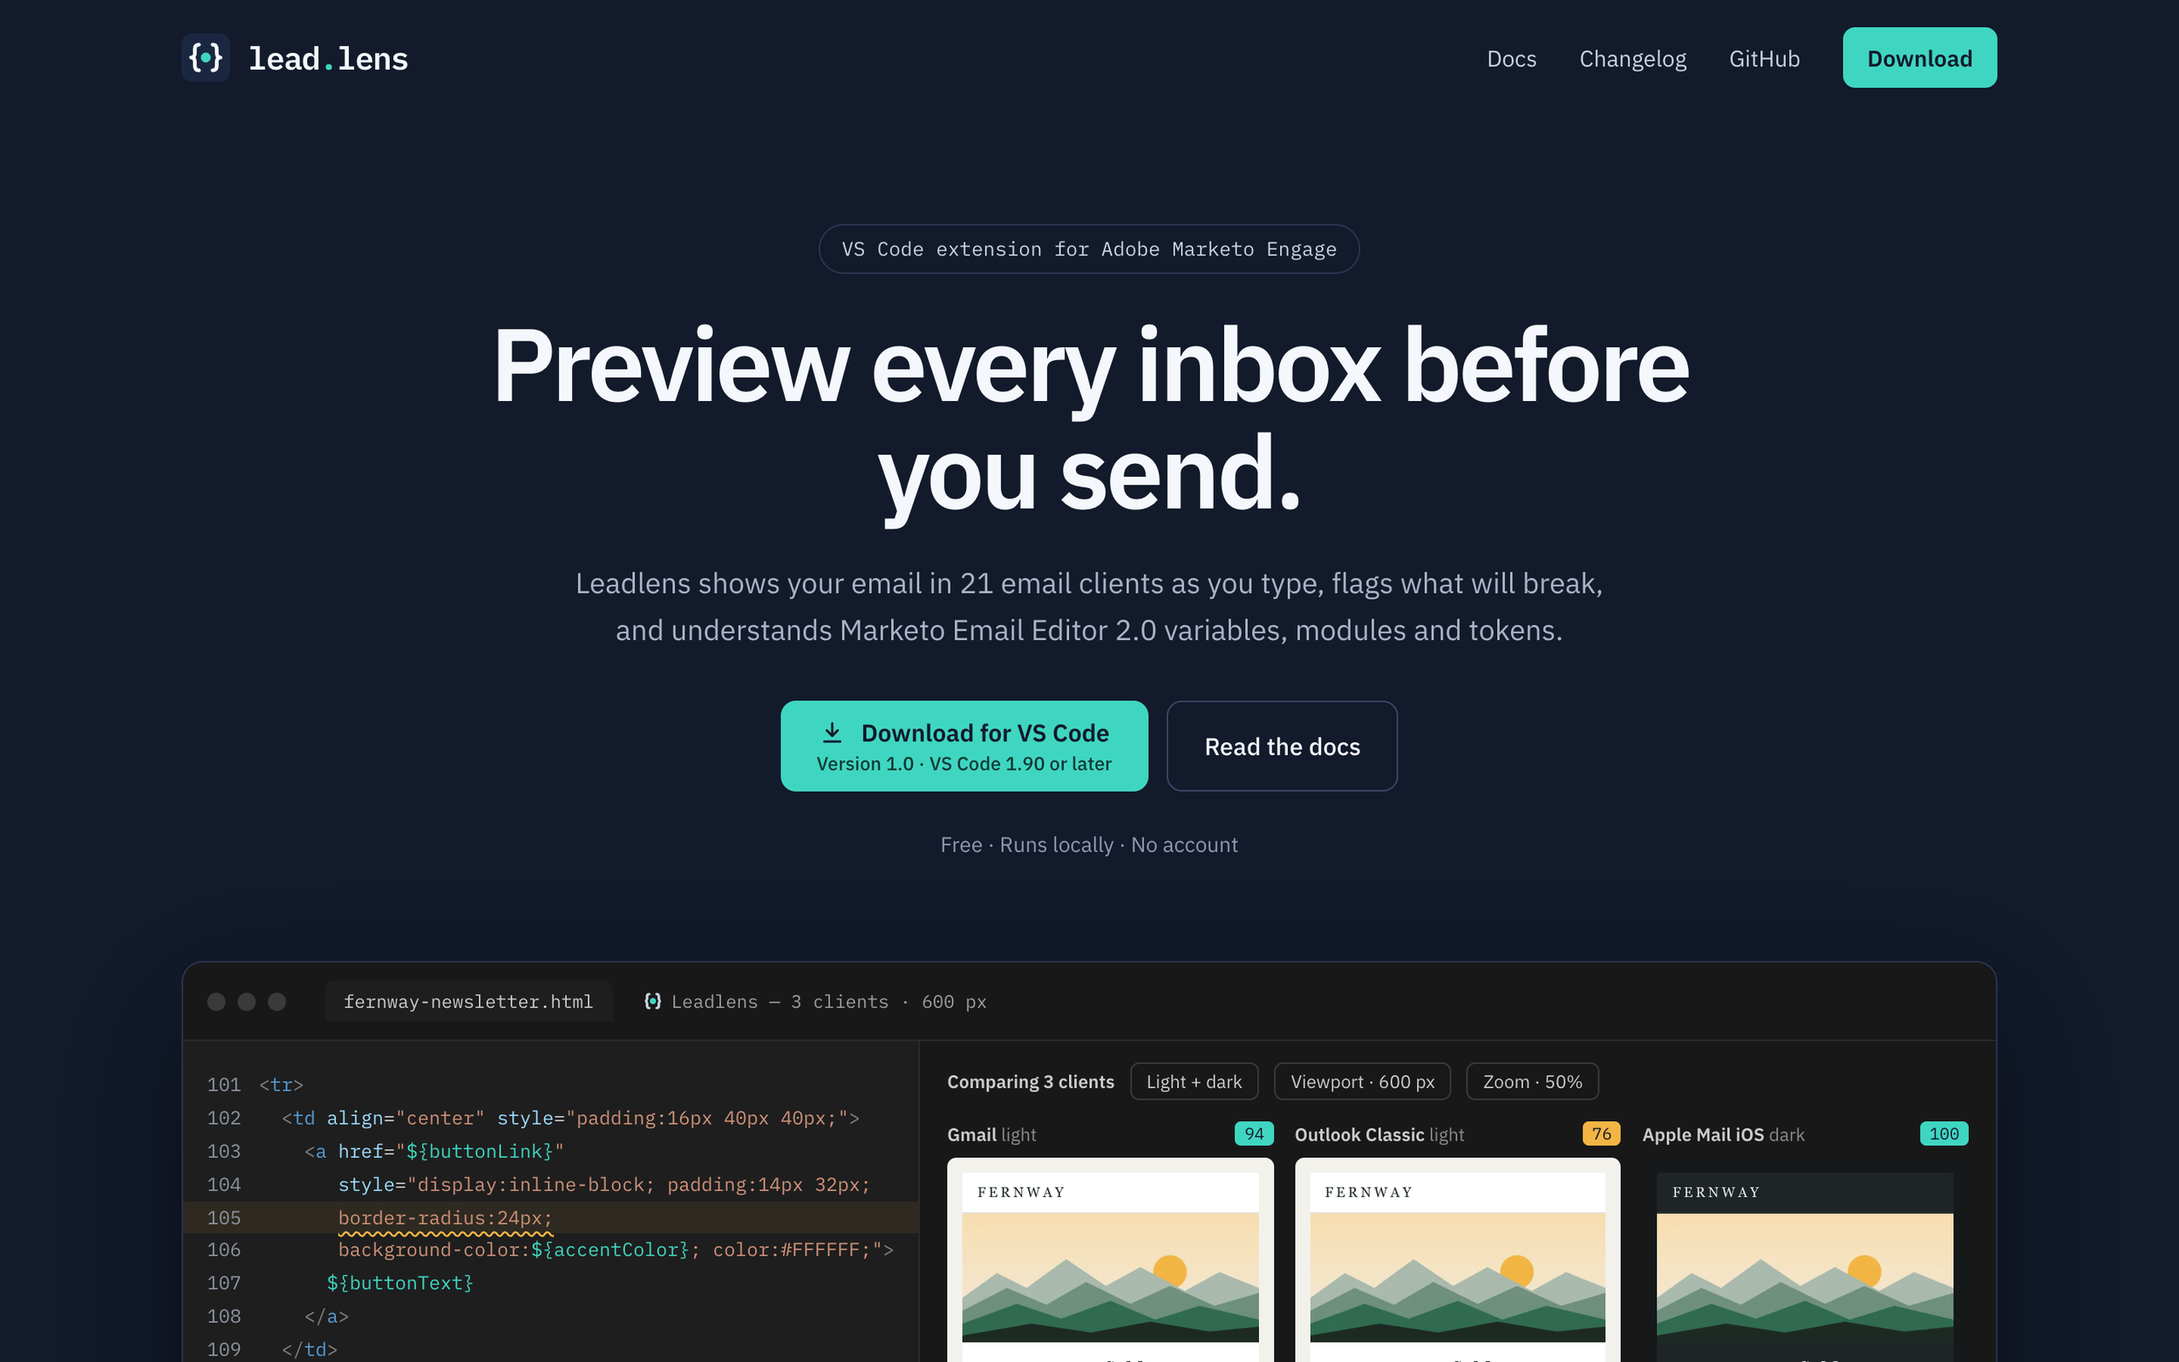
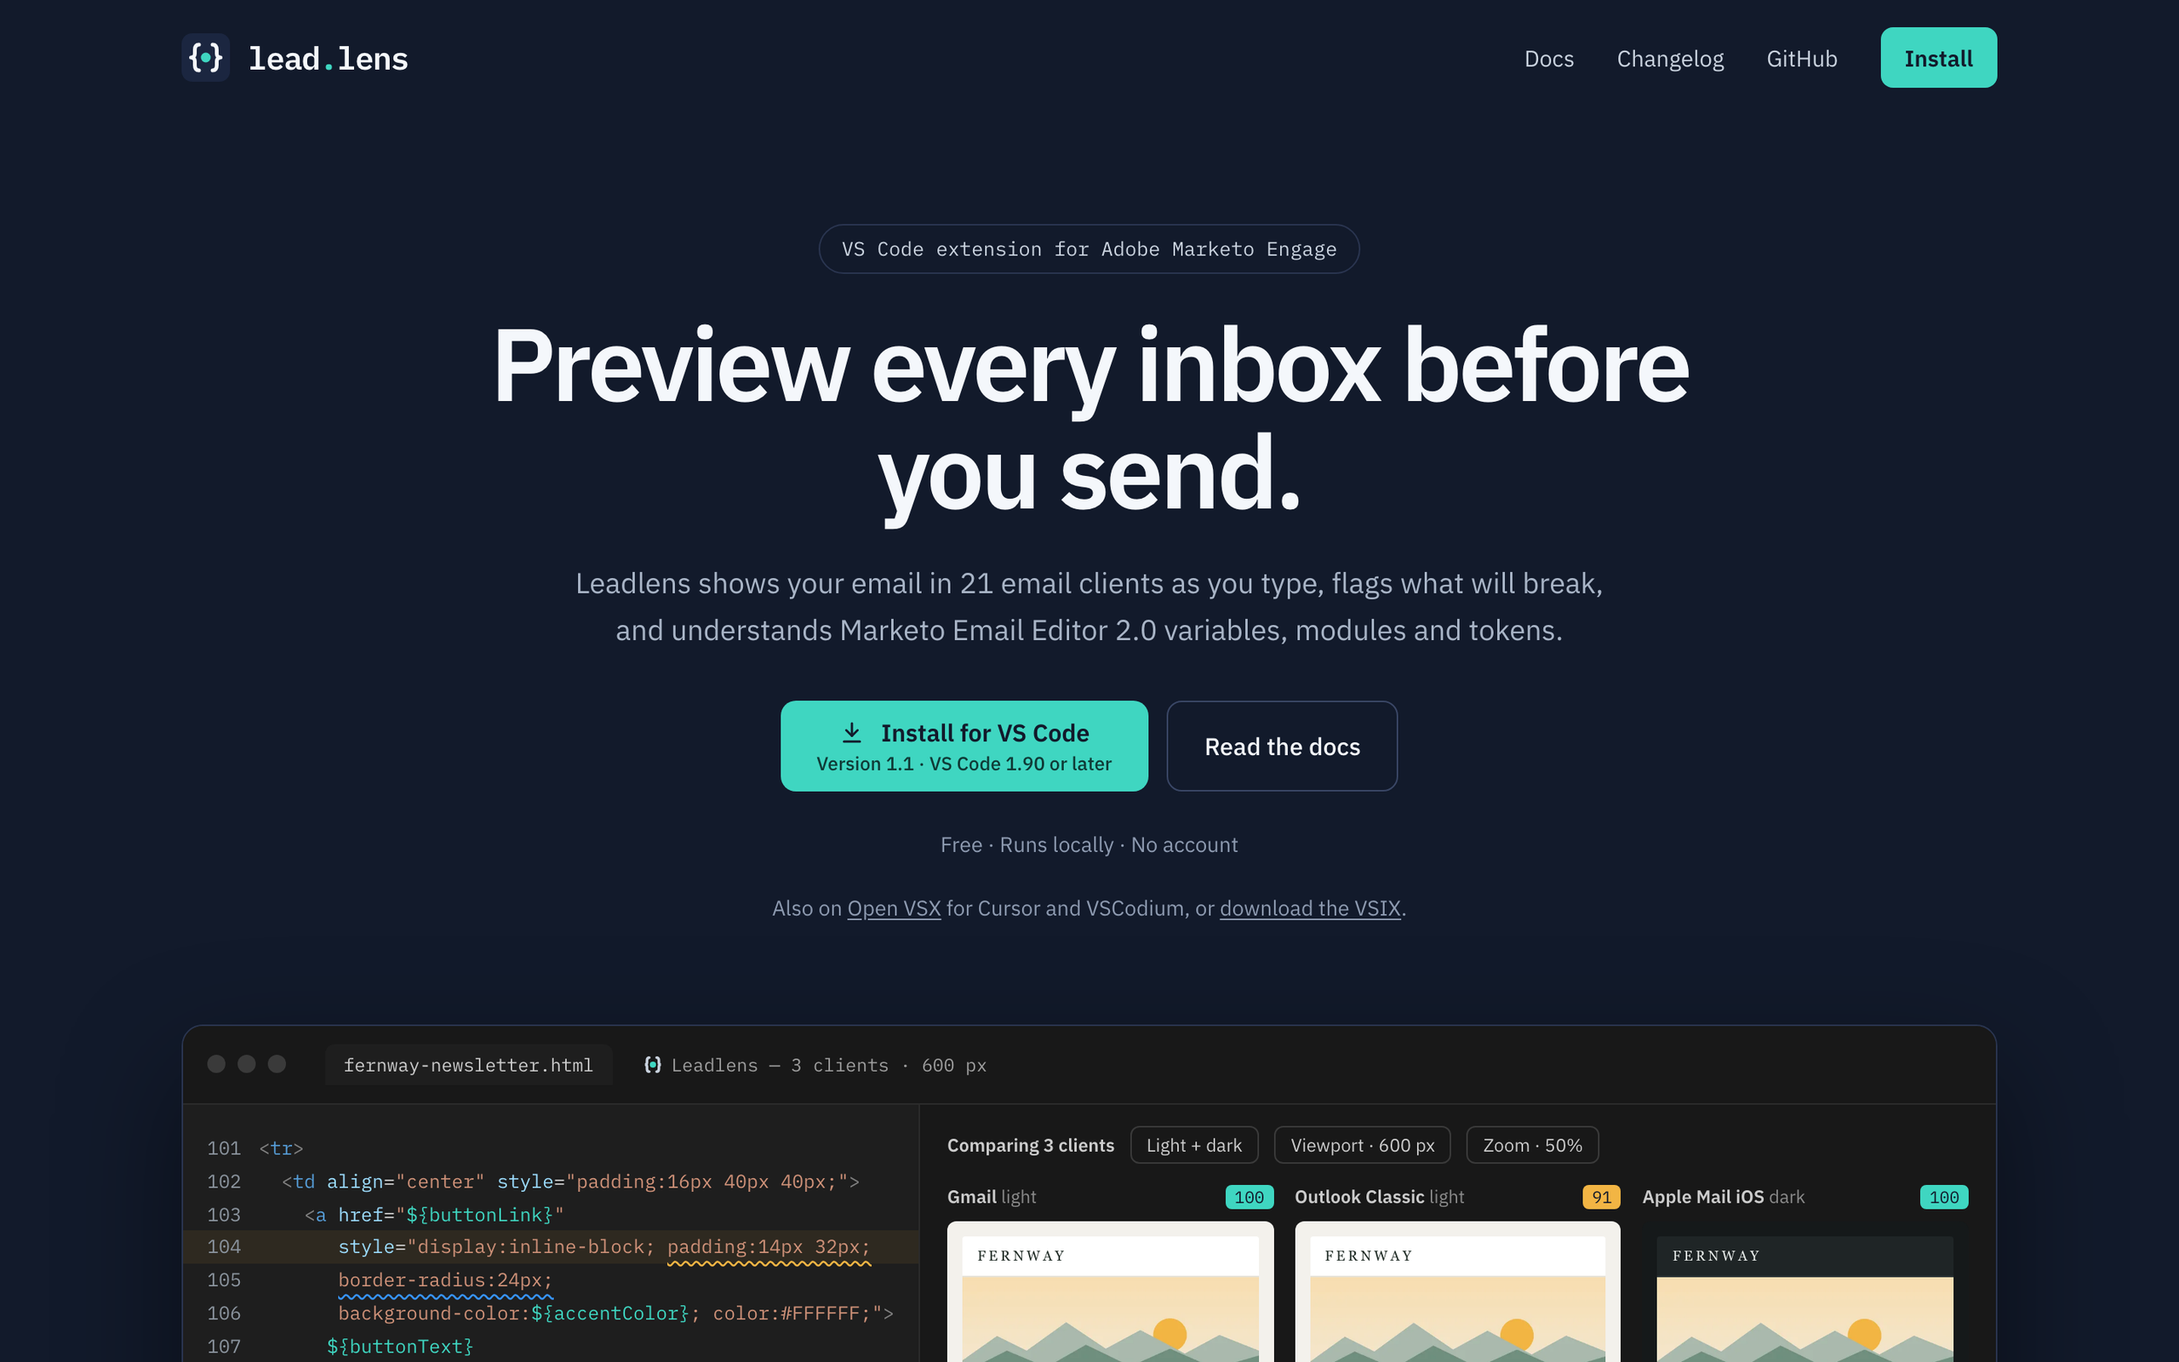
content: leadlens public release (#86)
## What changed

Update original Leadlens blog post now that the extension is available
on VS Code Marketplace and Open VSX. Add short announcement post to
announce the marketplace listing.

## How it was checked

- [X] `npm run verify` passes (format, lint, types, build)
- [X] Checked the branch preview in dark and light mode
- [X] Checked at phone width (375px) and desktop
- [X] Keyboard and reduced-motion behaviour still work, if UI changed
- [X] Lighthouse or PageSpeed checked, if a page's weight or layout
changed

## Brand

- [X] Uses tokens from `design/tokens.json` only (no new hex values or
one-off sizes)
- [X] Follows `docs/brand.md`, or this PR updates it

## Design system

- [ ] If this changes something [the design
system](https://design.harrisonjennings.au/) shows (a component, a
content element, a token or a page's look), there's a row for it in
`design-system/src/content/changes.yaml`; if it changes a page's first
screen, the templates' thumbnails are retaken (`npm run design:shots`)

diff --git a/src/content/posts/leadlens-email-previews-and-linting-for-marketo-inside-vs-code/index.md b/src/content/posts/leadlens-email-previews-and-linting-for-marketo-inside-vs-code/index.md
@@ -4,10 +4,11 @@ description: "A couple of months ago I wrote about whether sending yourself a te
 searchTitle: "leadlens: Marketo email previews and linting in VS Code"
 searchDescription: "Preview Adobe Marketo Engage emails across 21 email clients as you type, and lint them with Marketo-aware checks, in a VS Code extension."
 published: 2026-10-16
+updated: 2026-10-27
 topics: [adobe-marketo-engage, web-development]
 wpId: 685
 cover: "./cover.png"
-coverAlt: "Leadlens in VS Code: a Marketo template with a border-radius warning for Outlook Classic and its explanation, beside the email previewed in Gmail, Outlook Classic and Apple Mail iOS in dark mode"
+coverAlt: "Leadlens in VS Code: a Marketo template with a padding warning for Outlook Classic and its explanation, beside the email previewed in Gmail, Outlook Classic and Apple Mail iOS in dark mode"
 ---
 
 A couple of months ago I wrote about [whether sending yourself a test email is enough](/blog/is-sending-yourself-a-test-email-enough/). That post was about the end of the process: the sample send arrives, and a pipeline gathers the evidence a reviewer needs to approve it.
@@ -15,6 +16,8 @@ A couple of months ago I wrote about [whether sending yourself a test email is e
 This one is about the _other_ end. By the time a test send lands in your inbox, the email has already been built, uploaded and approved in Marketo. If the button falls apart in Outlook, or the dark-mode styles do nothing in Gmail, you find out late, fix it in a code editor, ship it back into Marketo, and send yourself another one. Then you squint at it on your phone again.
 
 So I built [Leadlens](https://leadlens.harrisonjennings.au): a VS Code extension that previews Adobe Marketo Engage emails across 21 email clients as you type, and lints them with an understanding of how Marketo actually works. It runs entirely on your own computer, and it's open source.
+
+**Update, 27 October 2026:** Leadlens is now on the [Visual Studio Marketplace](https://marketplace.visualstudio.com/items?itemName=leadlens.leadlens) and [Open VSX](https://open-vsx.org/extension/leadlens/leadlens), so you can install it from VS Code's Extensions view, and it keeps itself up to date. _shipping it_ below has the details.
 
 ## what I wanted
 
@@ -35,7 +38,7 @@ The hard part of email previewing isn't drawing a box with HTML in it. It's know
 
 I didn't want that job. [Emailens](https://github.com/emailens/engine) already does it: an open-source engine, released under the MIT licence, that models 21 email clients and draws its support data from [caniemail.com](https://www.caniemail.com). Leadlens started from Emailens' own VS Code extension and builds on its engine. The client knowledge is theirs. The Marketo layer, the preview interface and everything around them are mine.
 
-The decision that mattered most was how to depend on it. I'm not going to track email client changes myself, so the engine stays an ordinary dependency rather than a copy I'd have to keep merging. It's pinned to an exact version, and when Emailens publishes a new one, a GitHub Actions bot opens a pull request. The full test suite runs against the new engine, and merging it publishes a new build of Leadlens automatically. The upstream project keeps up with the clients; Leadlens inherits that work through one merge button.
+The decision that mattered most was how to depend on it. I'm not going to track email client changes myself, so the engine stays an ordinary dependency rather than a copy I'd have to keep merging. It's pinned to an exact version, and when Emailens publishes a new one, a GitHub Actions bot opens a pull request. The full test suite runs against the new engine, and merging it publishes a new build of Leadlens to the Marketplace automatically, where every installed copy picks it up as an update. The upstream project keeps up with the clients; Leadlens inherits that work through one merge button.
 
 ## teaching it Marketo
 
@@ -47,7 +50,7 @@ It works out what kind of file it's looking at: a full template, a complete emai
 
 A component can be previewed inside the real template it will live in, so a block of custom HTML for an editable region is checked in context rather than as a lonely fragment. And the editor itself learns the template: modules and regions show up in the outline, hovering a variable shows its declaration, Go to Definition jumps to it, and typing `${` offers the variables that are actually declared.
 
-The part I'm happiest with is that findings still point at the right line. By the time the engine sees the email, variables have been substituted and components composed, so its idea of "line 105" isn't yours. Leadlens maps every finding back through those substitutions to the line you wrote. If a `border-radius` inside a templated button breaks Outlook, the squiggle lands under that declaration in your template, not somewhere in a document you can't see.
+The part I'm happiest with is that findings still point at the right line. By the time the engine sees the email, variables have been substituted and components composed, so its idea of "line 105" isn't yours. Leadlens maps every finding back through those substitutions to the line you wrote. If Outlook drops the `padding` on a templated button, the squiggle lands under that declaration in your template, not somewhere in a document you can't see.
 
 Quick fixes follow the same rule. They'll correct a single-braced token or add a missing `mktoName`, but they never touch tokens, Outlook conditional comments or VML.
 
@@ -71,27 +74,29 @@ None of this is unusual for a security-minded tool, but it matters more than usu
 
 ## shipping it
 
-Leadlens isn't on the [Visual Studio Marketplace](https://marketplace.visualstudio.com/VSCode), at least for now. It's distributed the old-fashioned way: a `.vsix` file attached to a GitHub release, installed with **Install from VSIX…** in [VS Code](https://code.visualstudio.com/).
+Leadlens is on the [Visual Studio Marketplace](https://marketplace.visualstudio.com/items?itemName=leadlens.leadlens), so installing it is a search in VS Code's Extensions view. It's also on [Open VSX](https://open-vsx.org/extension/leadlens/leadlens), the registry Cursor, VSCodium and Windsurf use, and every build is still attached to a GitHub release for anyone who'd rather install the file.
 
-What isn't old-fashioned is how that file gets made. Every change merged into the main branch goes through the same pipeline:
+Every change merged into the main branch goes through the same pipeline:
 
 1. type-check the code;
-2. run 266 unit tests against the real engine;
-3. run 56 integration tests in an actual copy of VS Code, which opens files, waits for diagnostics, applies quick fixes and opens the preview;
+2. run 281 unit tests against the real engine;
+3. run 58 integration tests in an actual copy of VS Code, which opens files, waits for Leadlens' diagnostics, applies quick fixes and opens the preview;
 4. package the extension, and check it contains only what it should;
-5. publish it as the latest release, at an address that never changes.
+5. publish it to GitHub, the Marketplace and Open VSX in one go.
 
-The version number comes from the build, so every release is newer than the last and installs over it as an update. Each one is also signed with a provenance attestation: a record, verifiable with one GitHub CLI command, that the file was built by that pipeline from that commit and hasn't been altered since. That matters more than usual for something people download from a link rather than install from a store.
+The Marketplace step doesn't rely on a stored password. GitHub Actions signs in to Microsoft with a short-lived token issued for that one job, which is just as well: the personal access tokens which Marketplace publishing has always used are retired on 1 December 2026.
+
+The version number comes from the build, so every release is newer than the last and installs over it as an update. Each one is also signed with a provenance attestation: a record, verifiable with one GitHub CLI command, that the file was built by that pipeline from that commit and hasn't been altered since. That matters more than usual for anyone who installs the file from GitHub rather than from a store.
 
 ![Terminal output of gh attestation verify on a downloaded leadlens.vsix, ending in Verification succeeded and naming the repository and workflow that built it](./attestation.png)
 
 ## a home for it
 
-An extension that isn't in a store has to explain itself somewhere else, so Leadlens has [its own website](https://leadlens.harrisonjennings.au). It covers what Leadlens does, how to install it, full documentation for every feature, and the changelog.
+A marketplace listing only says so much, so Leadlens also has [its own website](https://leadlens.harrisonjennings.au). It covers what Leadlens does, how to install it, full documentation for every feature, and the changelog.
 
-![The Leadlens website home page: the lead.lens logo, the headline “Preview every inbox before you send”, a Download for VS Code button showing version 1.0 and VS Code 1.90 or later, and the product illustration below](./website.png)
+![The Leadlens website home page: the lead.lens logo, the headline “Preview every inbox before you send”, an Install for VS Code button showing version 1.1 and VS Code 1.90 or later, and the product illustration below](./website.png)
 
-The site lives in the same repository as the extension, built with [Astro](https://astro.build/) and [Starlight](https://starlight.astro.build/) and hosted on [Vercel](https://vercel.com/home). That matters more than the choice of framework. The documentation and the changelog aren't written twice: the site is built from the same Markdown files that sit next to the code. A pull request that changes how Leadlens behaves updates its documentation in the same change, and the site rebuilds itself when it merges. Even the version number and the minimum VS Code version on the download buttons are read from the extension's own package file, so they can't drift out of date.
+The site lives in the same repository as the extension, built with [Astro](https://astro.build/) and [Starlight](https://starlight.astro.build/) and hosted on [Vercel](https://vercel.com/home). That matters more than the choice of framework. The documentation and the changelog aren't written twice: the site is built from the same Markdown files that sit next to the code. A pull request that changes how Leadlens behaves updates its documentation in the same change, and the site rebuilds itself when it merges. Even the version number and the minimum VS Code version on the install buttons are read from the extension's own package file, so they can't drift out of date.
 
 It's also built to match the extension's attitude to privacy. Everything, fonts included, is served from the site itself, there are no cookies, and visits are counted with cookie-free analytics and nothing else.
 
@@ -113,11 +118,11 @@ What the two bugs have in common is that the tests checked the wrong thing. One 
 
 Leadlens opens beside any HTML email, template or component in VS Code. It shows the email in 21 clients, in light and dark mode, at phone or desktop width, updating as I type. Problems appear in the editor where they happen, with an explanation on hover and a fix where one is safe. And it understands Marketo well enough to stop shouting about syntax that Marketo was always going to handle.
 
-It stays current without me, too. When Emailens learns something new about a client, Leadlens picks it up the next time I merge a pull request I didn't have to write.
+It stays current without me, too. When Emailens learns something new about a client, Leadlens picks it up the next time I merge a pull request I didn't have to write, and everyone who installed it from the Marketplace gets that update without lifting a finger.
 
-It's open source under the MIT licence. You can download it, read the documentation or browse the code:
+It's open source under the MIT licence. You can install it, read the documentation or browse the code:
 
-[get Leadlens](https://leadlens.harrisonjennings.au) · [view on GitHub](https://github.com/harrison-jennings/leadlens)
+[install from the VS Code Marketplace](https://marketplace.visualstudio.com/items?itemName=leadlens.leadlens) · [get Leadlens](https://leadlens.harrisonjennings.au) · [view on GitHub](https://github.com/harrison-jennings/leadlens)
 
 ## what I learned
 

diff --git a/src/content/posts/leadlens-is-now-on-the-vs-code-marketplace/index.md b/src/content/posts/leadlens-is-now-on-the-vs-code-marketplace/index.md
@@ -1,0 +1,29 @@
+---
+title: leadlens is now on the VS Code Marketplace
+description: "leadlens, my Marketo email preview and linting extension, now installs in one click from the VS Code Marketplace and Open VSX, and keeps itself up to date."
+searchTitle: "leadlens for Marketo is now on the VS Code Marketplace"
+published: 2026-10-27
+topics: [adobe-marketo-engage, web-development]
+related: [leadlens-email-previews-and-linting-for-marketo-inside-vs-code]
+draft: false
+---
+
+Earlier this month I wrote about [building Leadlens](/blog/leadlens-email-previews-and-linting-for-marketo-inside-vs-code/), a VS Code extension that previews Adobe Marketo Engage emails across 21 email clients as you type, and lints them with an understanding of how Marketo actually works. Back then, installing it meant downloading a file from GitHub. As of today, it's on the [Visual Studio Marketplace](https://marketplace.visualstudio.com/items?itemName=leadlens.leadlens).
+
+![Leadlens in VS Code: typing padding into a Marketo template's button brings up an Outlook Classic warning and its explanation on hover, the button collapses in the Outlook Classic preview, and the quick fix menu opens](./demo.gif)
+
+Add `padding` to a templated button and Leadlens warns that Outlook Classic drops it, explains why on hover, shows the button collapsing in the Outlook Classic preview, and offers a quick fix.
+
+## what changes
+
+**Installing is one click.** Search for Leadlens in VS Code's Extensions view, or open [its Marketplace listing](https://marketplace.visualstudio.com/items?itemName=leadlens.leadlens) and choose **Install**. No more downloading a `.vsix` and hunting for the install button in VS Code.
+
+**It keeps itself up to date.** Leadlens gets its knowledge of email clients from the open-source [Emailens](https://github.com/emailens/engine) engine. When Emailens learns something new about how Gmail or Outlook treats your HTML, a new build of Leadlens goes to the Marketplace, and VS Code installs it like any other extension update. Your previews and warnings get more accurate without you doing anything.
+
+**It works beyond VS Code.** Leadlens is also on [Open VSX](https://open-vsx.org/extension/leadlens/leadlens), the registry Cursor, VSCodium and Windsurf install extensions from, so it's a search away in those editors too.
+
+## try it
+
+It's free, it runs entirely on your own computer, and it's open source under the MIT licence.
+
+[install from the VS Code Marketplace](https://marketplace.visualstudio.com/items?itemName=leadlens.leadlens) · [visit the Leadlens website](https://leadlens.harrisonjennings.au) · [read the full story](/blog/leadlens-email-previews-and-linting-for-marketo-inside-vs-code/)
